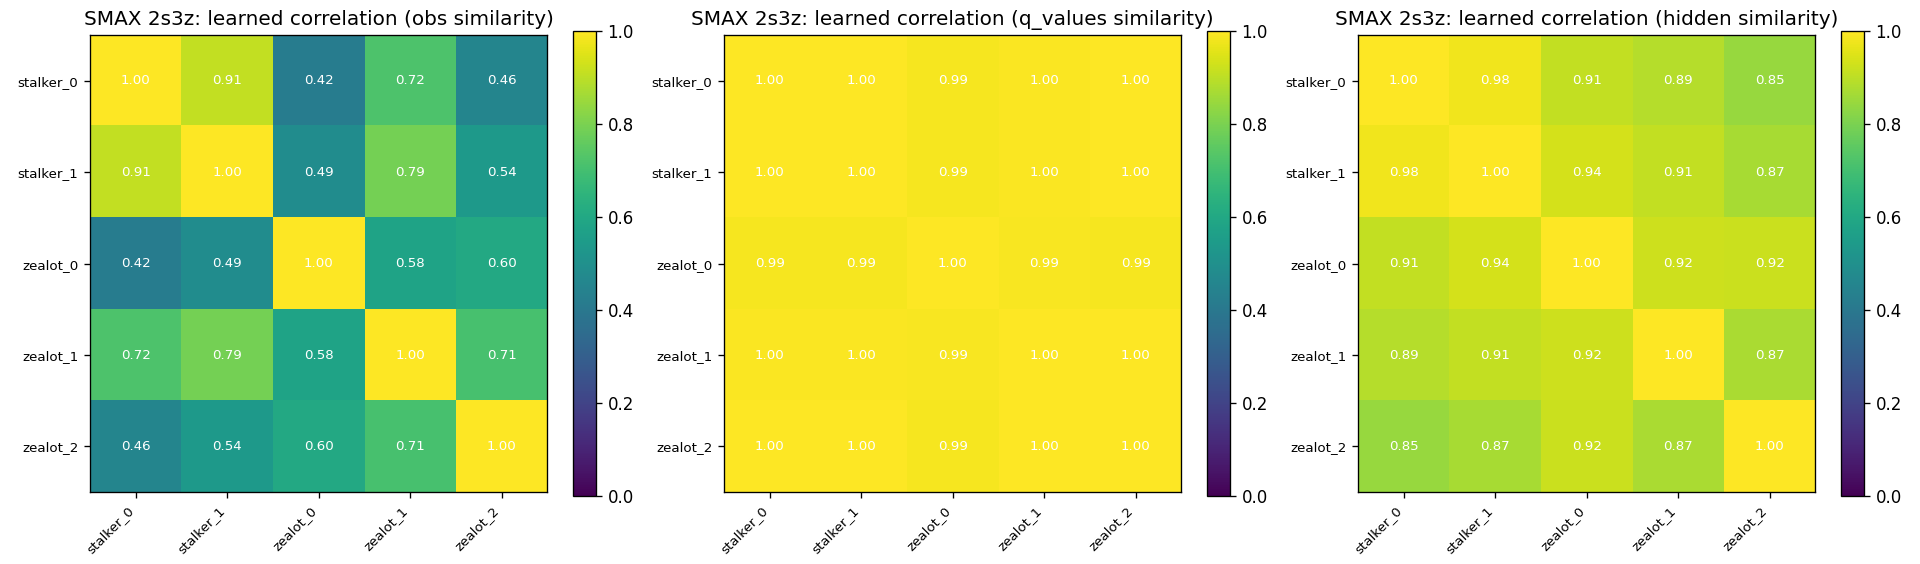
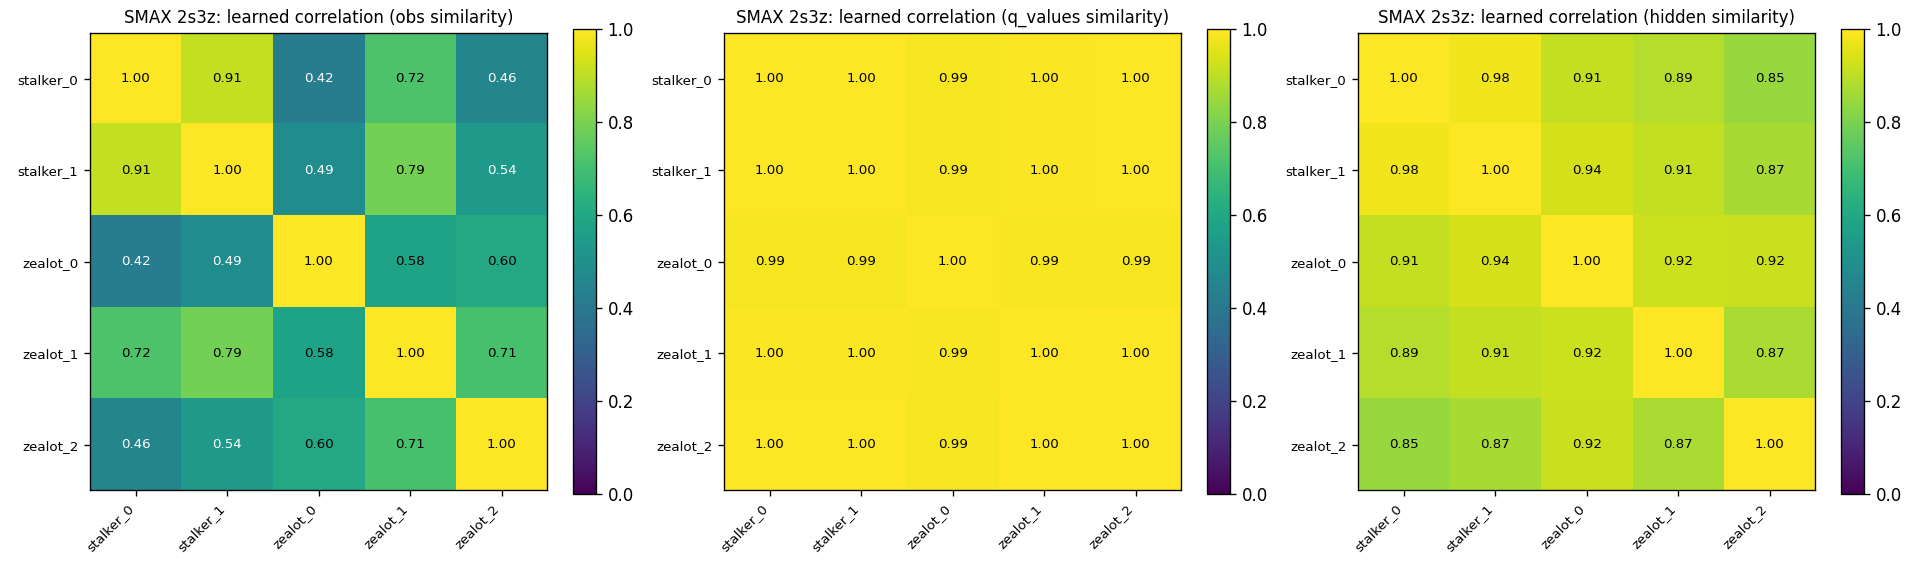
corr matrix: readable text + explain why q_values cosine saturates
- Adaptive text colour (black on bright cells) so values are legible on the
  yellow high-correlation cells; saved as a reproducible plot_smax_corr_matrix.py.
- Added the explanation for the near-uniform q_values panel: cosine on the large,
  all-positive converged Q-vectors is dominated by their shared offset (~0.99;
  mean-centring drops it to ~0.85), so q_values cannot discriminate agents at
  convergence. Not a bug -- an inherent limitation of that similarity source.

diff --git a/plot_smax_corr_matrix.py b/plot_smax_corr_matrix.py
@@ -1,0 +1,51 @@
+"""Learned correlation matrices (end of training) for the three similarity sources.
+
+Averaged over seeds. Text colour adapts to cell brightness so values stay
+readable on the yellow (high-correlation) cells.
+"""
+
+import glob
+
+import matplotlib.pyplot as plt
+import numpy as np
+
+LABELS = ["stalker_0", "stalker_1", "zealot_0", "zealot_1", "zealot_2"]
+SIMS = [("obs", "obs similarity"),
+        ("q_values", "q_values similarity"),
+        ("hidden", "hidden similarity")]
+
+
+def avg_final_corr(sim):
+    mats = []
+    for p in sorted(glob.glob(f"results_smax/smax_2s3z_vdn_correlated_{sim}_s*.npz")):
+        d = np.load(p, allow_pickle=True)
+        M = d["corr_log_matrices"]
+        if M.shape[0] > 0:
+            mats.append(M[-1])
+    return np.mean(mats, axis=0)
+
+
+def main():
+    fig, axes = plt.subplots(1, 3, figsize=(16, 4.7))
+    for ax, (sim, title) in zip(axes, SIMS):
+        R = avg_final_corr(sim)
+        im = ax.imshow(R, vmin=0, vmax=1, cmap="viridis")
+        ax.set_xticks(range(5))
+        ax.set_yticks(range(5))
+        ax.set_xticklabels(LABELS, rotation=45, ha="right", fontsize=8)
+        ax.set_yticklabels(LABELS, fontsize=8)
+        for i in range(5):
+            for j in range(5):
+                # Black text on bright (viridis > ~0.5 -> greenish/yellow) cells.
+                color = "black" if R[i, j] > 0.55 else "white"
+                ax.text(j, i, f"{R[i, j]:.2f}", ha="center", va="center",
+                        color=color, fontsize=8)
+        ax.set_title(f"SMAX 2s3z: learned correlation ({title})", fontsize=10)
+        plt.colorbar(im, ax=ax, fraction=0.046)
+    fig.tight_layout()
+    fig.savefig("plot_smax_corr_matrix.png", dpi=120)
+    print("saved plot_smax_corr_matrix.png")
+
+
+if __name__ == "__main__":
+    main()

diff --git a/REPORT.md b/REPORT.md
@@ -246,8 +246,13 @@ The end-of-training snapshot makes the collapse concrete:
 
 ![SMAX learned correlation (convergence)](plot_smax_corr_matrix.png)
 
-By convergence `q_values` and `hidden` are near-uniform (~0.95–1.0) — every agent
-values the same actions. The `obs` panel is more nuanced: the two stalkers are
+By convergence `q_values` is essentially **uniform (~0.99)**. This is partly an
+artefact of cosine similarity: a converged policy has large, all-positive
+Q-vectors (returns ≈ 2), and the cosine between two large positive vectors is
+dominated by their shared offset — it sits near 1 regardless of the finer
+structure (mean-centring the same vectors drops the similarity to ~0.85). So
+`q_values` cannot discriminate agents once training converges. `hidden` is also
+high (~0.9) but retains a little more structure. The `obs` panel is more nuanced: the two stalkers are
 consistently the **most strongly coupled pair (~0.9)**, but the partition is not
 cleanly by unit type — typically one zealot couples strongly with the stalkers
 (~0.7) while the others group separately, and which zealot this is varies across